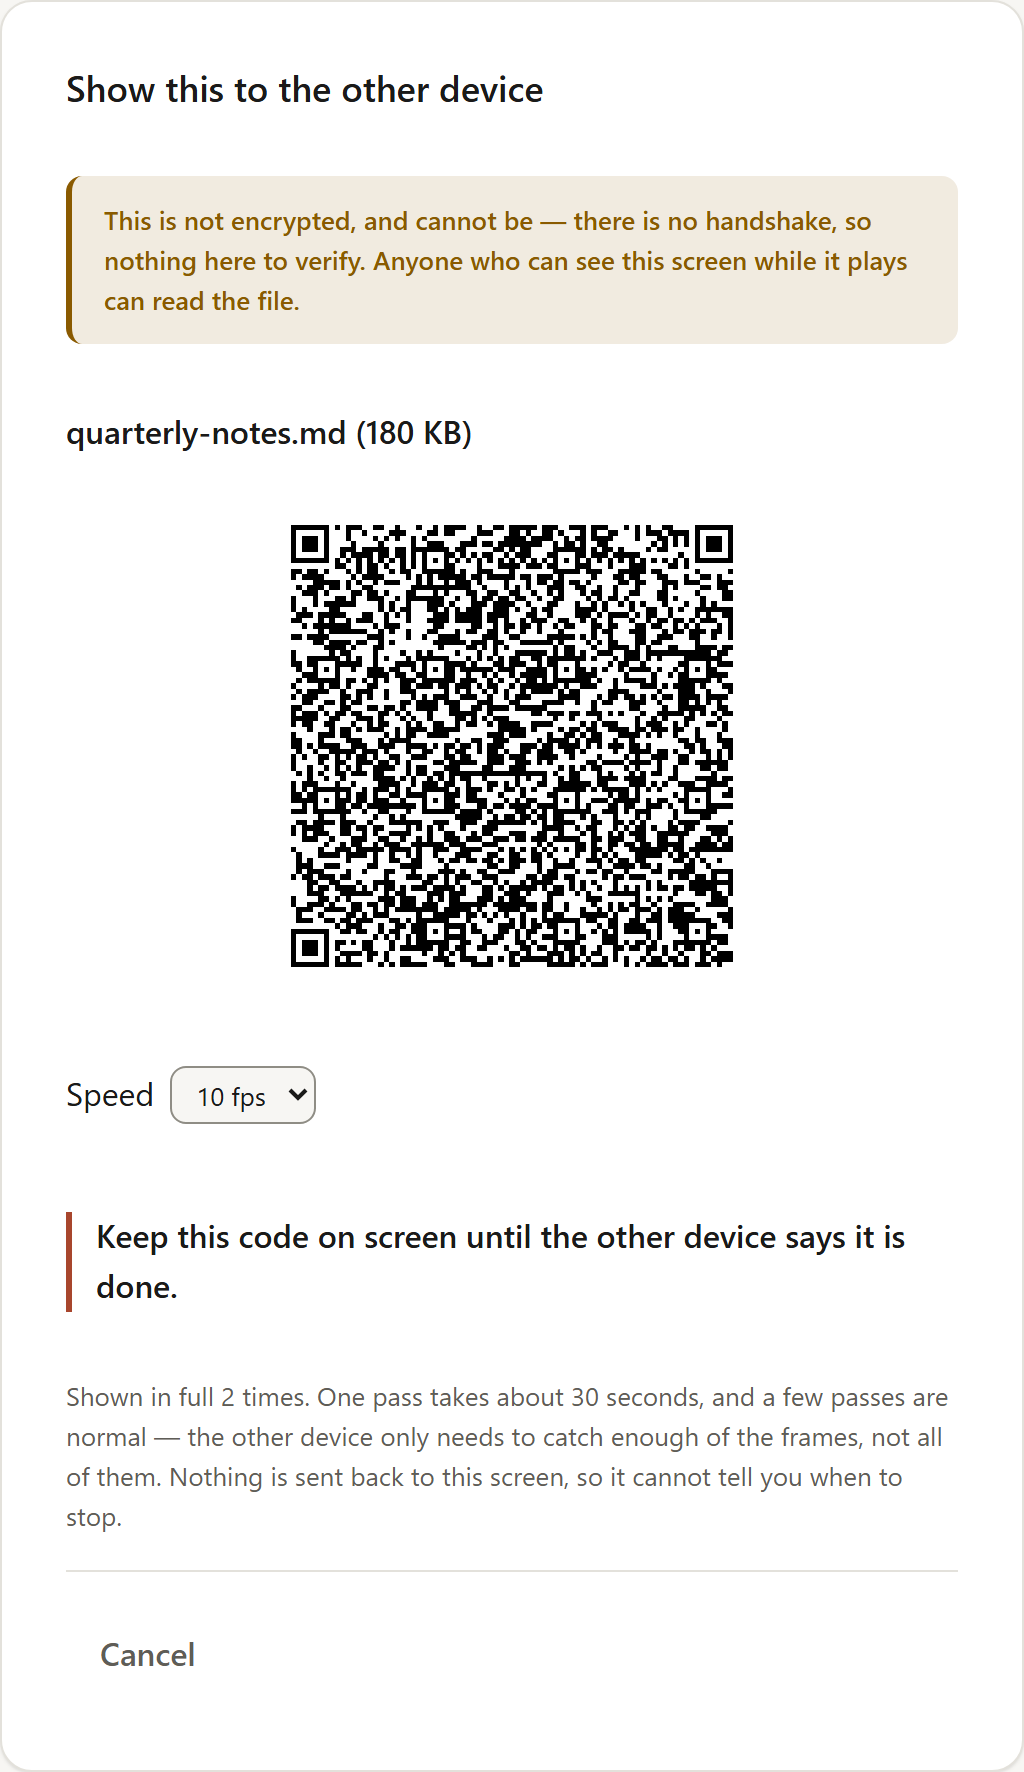
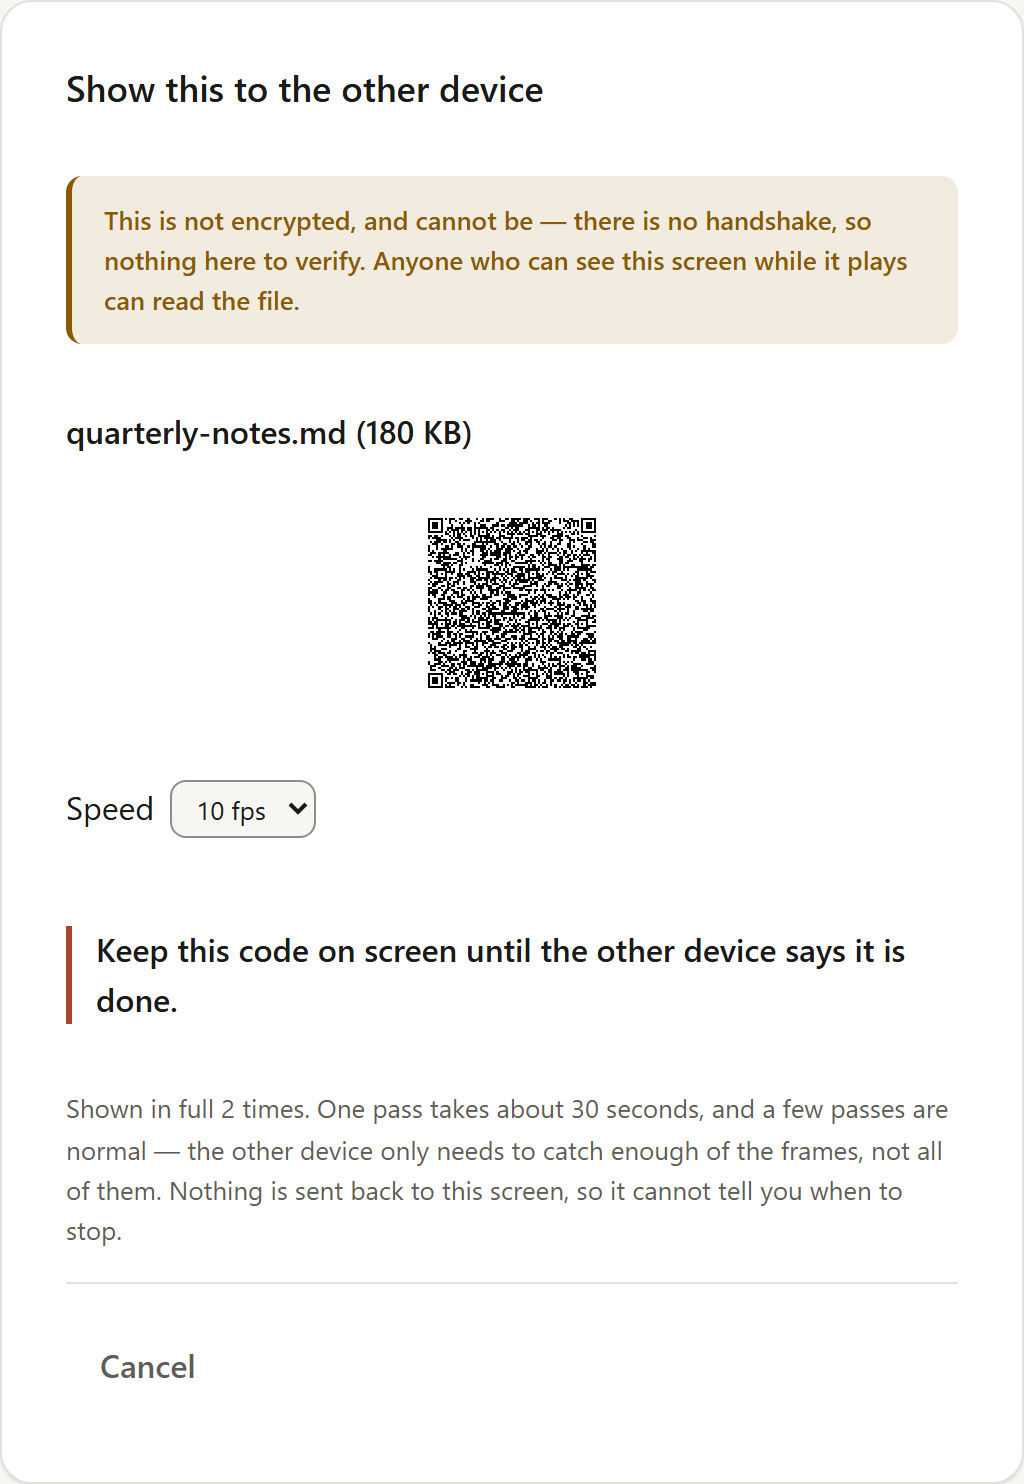
feat(web): announce the route once when it settles, and let the QR shrink like the camera does
Two changes with one motive: a change the user did not cause should still be a
change the user notices.

The network path was the last genuinely passive thing on screen. It resolves a
beat after the verify screen has already been read, quietly inserting a badge
above the SAS tiles -- and it is the most security-relevant sentence in the
app, since "Local network" and "Relayed" are materially different promises
about where the bytes go. A user who never saw the badge appear has not been
told. It now also arrives as a toast, once per settled value: both peers'
verdicts land independently and combinePaths can sharpen 'unknown' into a real
answer a moment later, so announcing every call would say the same thing three
times.

The toast is deliberately the only one. A toast for every state change is a UI
that flashes constantly and is therefore ignored, which is worse than the
silence it replaced. Anything a screen can go on describing stays in `status`;
anything that went wrong goes to the error sheet, which does not expire.

It is positioned absolutely against :host rather than fixed against the
viewport, which was the first attempt: on the deployed site the viewport's
bottom edge belongs to the page, not the component, so a fixed toast sat on top
of the site footer's links.

The QR and the beam stage are now sized from their height, with aspect-ratio
deriving the width -- the reverse of the width cap they had. A QR is square, so
[…]

diff --git a/src/web/element.js b/src/web/element.js
@@ -43,7 +43,7 @@ import { openRoom, RELAYED_MAX_BYTES, combinePaths } from '../transport/room.js'
 import { createControlStream } from '../core/control.js'
 import { createReceiver, sendPathVerdict } from '../core/receiver.js'
 import { sendFile } from '../core/sender.js'
-import { relayCapMessage, relayCapDeclineMessage, METERED_WARN_BYTES, PEER_DISCONNECTED } from '../core/messages.js'
+import { relayCapMessage, relayCapDeclineMessage, METERED_WARN_BYTES, PEER_DISCONNECTED, pathDescription } from '../core/messages.js'
 import { bytes } from '../core/format.js'
 import { createSink, canStreamToDisk } from './sink.js'
 import { renderQR, scanQR, cameraAvailable } from './qr.js'
@@ -200,6 +200,9 @@ export class QRDropElement extends HTMLElement {
     /** @type {number | undefined} */
     this._copyTimer = undefined
 
+    /** @type {number | undefined} Clears the transient toast; see _toast. */
+    this._toastTimer = undefined
+
     /**
      * The running beam player, kept only so the fps control can reach it.
      *
@@ -268,7 +271,7 @@ export class QRDropElement extends HTMLElement {
     const publish = path => {
       this._myPath = path
       if (this._sessionEnded) return
-      this._setState({ path: combinePaths(path, this._peerPath ?? 'unknown') })
+      this._announcePath(combinePaths(path, this._peerPath ?? 'unknown'))
       // No control stream, no send. This used to fall back to `() => 0`,
       // which is not a harmless default: index 0 is the manifest's, and two
       // control frames sharing an index under one key is AES-GCM nonce reuse
@@ -309,7 +312,7 @@ export class QRDropElement extends HTMLElement {
   _mergePeerPath(path) {
     this._peerPath = path
     if (this._sessionEnded) return
-    this._setState({ path: combinePaths(this._myPath ?? 'unknown', path) })
+    this._announcePath(combinePaths(this._myPath ?? 'unknown', path))
   }
 
   /**
@@ -357,6 +360,7 @@ export class QRDropElement extends HTMLElement {
       beamNode: /** @type {Element | null} */ (null),
       dialogNode: /** @type {Element | null} */ (this._dialogNode),
       modal: /** @type {'beam-offer' | 'error' | null} */ (null),
+      toast: /** @type {string | null} */ (null),
       beam: /** @type {import('./view.js').State['beam']} */ (null),
     }
   }
@@ -482,6 +486,7 @@ export class QRDropElement extends HTMLElement {
     try { this._teardown?.() } catch { /* already gone */ }
     this._teardown = null
     clearTimeout(this._copyTimer)
+    clearTimeout(this._toastTimer)
   }
 
   /**
@@ -585,6 +590,50 @@ export class QRDropElement extends HTMLElement {
     if (heading instanceof HTMLElement) heading.focus()
   }
 
+  /**
+   * Set the network path, and say so out loud the first time it settles.
+   *
+   * The badge this feeds arrives a beat after the verify screen has already
+   * been read -- it is the one thing on that screen that appears on its own,
+   * with no gesture behind it, quietly inserting itself above the SAS tiles.
+   * It is also the most security-relevant sentence in the app: "Local network"
+   * and "Relayed" are materially different promises about where the bytes go,
+   * and a user who never noticed the badge change has not been told.
+   *
+   * Once per settled value, not once per call. Both sides' verdicts arrive
+   * independently (see _mergePeerPath) so this runs twice for one pairing, and
+   * combinePaths can also sharpen 'unknown' into a real answer a moment later
+   * -- announcing every call would toast the same fact two or three times.
+   *
+   * @param {NetworkPath} path
+   */
+  _announcePath(path) {
+    const changed = path !== this._state.path
+    this._setState({ path })
+    if (changed && path !== 'unknown') this._toast(pathDescription(path).label)
+  }
+
+  /**
+   * Announce something that just happened, briefly.
+   *
+   * Deliberately narrow. A toast for every state change is a UI that flashes
+   * constantly and is therefore ignored, which is a worse outcome than the
+   * silence it replaced -- these fire for changes the user did not cause and
+   * could not otherwise notice. Anything the screen can go on describing
+   * belongs in `status`; anything that went wrong belongs in the error sheet,
+   * which does not disappear on a timer.
+   *
+   * @param {string} message
+   */
+  _toast(message) {
+    clearTimeout(this._toastTimer)
+    this._setState({ toast: message })
+    // Long enough to read a short sentence twice. Cleared through _setState
+    // rather than by touching the DOM, so a re-render in between cannot
+    // resurrect a toast that has already expired.
+    this._toastTimer = setTimeout(() => this._setState({ toast: null }), 4000)
+  }
+
   /** @param {unknown} error */
   _fail(error) {
     console.error(error)
@@ -641,6 +690,7 @@ export class QRDropElement extends HTMLElement {
     this._peerPath = null
     this._nextControlIndex = null
     clearTimeout(this._copyTimer)
+    clearTimeout(this._toastTimer)
     this._setState({
       screen: 'choose', role: null, status: '', code: '', qrNode: null, qrIsLink: false,
       sas: '', sasWords: [], offer: null, file: null, progress: null,
@@ -666,6 +716,7 @@ export class QRDropElement extends HTMLElement {
     if (!text) return
     const ok = await copyText(text)
     clearTimeout(this._copyTimer)
+    clearTimeout(this._toastTimer)
     // A failed copy gets a state of its own rather than the early return it
     // used to get -- see view.js's copyLabel for why silence was the wrong
     // answer. It reverts on the same timer as the success case.

diff --git a/src/web/styles.js b/src/web/styles.js
@@ -281,6 +281,48 @@ ${tokensCSS(':host')}
 .sheet-actions .btn { flex: 1 1 10rem; }
 .sheet-actions .btn.ghost { flex: 0 1 auto; }
 
+/*
+ * The toast: one transient line, for a change the user did not cause.
+ *
+ * position: absolute against :host, NOT fixed against the viewport. Fixed was
+ * the first attempt and is wrong on the deployed site: the viewport's bottom
+ * edge is the page's, not the component's, so the toast landed on top of the
+ * site footer's links. Absolute anchors it to the component, which is the
+ * thing it is reporting about. Nothing clips it -- :host sets no overflow, and
+ * only .card-body does, which is not an ancestor of this.
+ *
+ * Sitting just above the card's bottom edge puts it directly over the action
+ * bar, which is where the eye already is.
+ *
+ * pointer-events: none because it must never intercept a tap meant for the
+ * button underneath it. It says something; it is not something to use.
+ */
+:host { position: relative; }
+
+.toast {
+  position: absolute;
+  inset-block-end: var(--sp-4);
+  inset-inline: var(--sp-4);
+  margin-inline: auto;
+  inline-size: fit-content;
+  max-inline-size: calc(100% - var(--sp-6));
+  z-index: var(--z-toast);
+  pointer-events: none;
+  padding: var(--sp-2) var(--sp-4);
+  border-radius: var(--r-full);
+  background: var(--text);
+  color: var(--surface);
+  font-size: var(--fs--1);
+  font-weight: 500;
+  box-shadow: var(--shadow-1);
+  animation: toast-in var(--dur-slow) ease-out;
+}
+
+@keyframes toast-in {
+  from { opacity: 0; transform: translateY(var(--sp-3)); }
+  to { opacity: 1; transform: none; }
+}
+
 h2 {
   margin: 0 0 var(--sp-4);
   font-size: var(--fs-1);
@@ -398,14 +440,33 @@ h2:focus, h2:focus-visible { outline: none; box-shadow: none; }
 }
 
 /* Always light, whatever the page theme: scanners read dark-on-light best. */
+/*
+ * Sized from its HEIGHT, with aspect-ratio deriving the width -- the reverse
+ * of the obvious inline-size cap this used to have.
+ *
+ * A QR is square, so whichever axis is scarcer has to be the one that governs.
+ * On a phone that is the height: a 16rem-wide code demands 16rem of vertical
+ * space unconditionally, and on the send screen that was 322px of a card that
+ * did not have it, pushing the rest of the screen into a scroll. Driving the
+ * block size instead lets the code shrink when the card is short and sit at
+ * its full size when it is not, with the width following rather than leading.
+ *
+ * The floor matters: below roughly 7rem the modules of a version-6 code get
+ * small enough that a phone camera at arm length stops locking on, and a QR
+ * nobody can scan is not a smaller QR, it is a broken screen.
+ */
 .qr {
   background: var(--qr-quiet-zone);
   border-radius: var(--r-sm);
   padding: var(--sp-3);
-  width: min(16rem, 100%);
+  flex: 0 1 auto;
+  block-size: min(16rem, 100%);
+  min-block-size: 7rem;
+  aspect-ratio: 1;
+  max-inline-size: 100%;
   margin: 0 auto var(--sp-5);
 }
-.qr svg { display: block; width: 100%; height: auto; }
+.qr svg { display: block; inline-size: 100%; block-size: 100%; }
 
 /* Same "always light" reasoning as .qr above, and the same quiet-zone padding
  * -- a beam frame is read by the exact same class of scanner as the pairing
@@ -414,7 +475,11 @@ h2:focus, h2:focus-visible { outline: none; box-shadow: none; }
   background: var(--qr-quiet-zone);
   border-radius: var(--r-sm);
   padding: var(--sp-3);
-  width: min(16rem, 100%);
+  flex: 0 1 auto;
+  block-size: min(16rem, 100%);
+  min-block-size: 7rem;
+  aspect-ratio: 1;
+  max-inline-size: 100%;
   margin: 0 auto var(--sp-4);
 }
 
@@ -425,8 +490,8 @@ h2:focus, h2:focus-visible { outline: none; box-shadow: none; }
  * an un-pixelated beam looks fine to a person and is unreadable to a camera. */
 .beam-canvas {
   display: block;
-  width: 100%;
-  height: auto;
+  inline-size: 100%;
+  block-size: 100%;
   image-rendering: pixelated;
 }
 
@@ -732,7 +797,31 @@ input[type="text"]:focus-visible { outline: none; box-shadow: var(--focus-ring);
   .card-actions { padding-block-start: var(--sp-3); }
   .steps { margin-bottom: var(--sp-3); }
   .outcome { padding: var(--sp-3); }
-  .qr, .beam-stage { inline-size: min(12rem, 100%); }
+  .qr, .beam-stage { block-size: min(12rem, 100%); }
+}
+
+/*
+ * The SAS tiles on a small phone, which is the one screen where trimming
+ * padding was not enough.
+ *
+ * Four tiles at their full size, a two-line heading and the "if these differ"
+ * warning together overflow a 390x844 viewport, and the warning is the half
+ * that was being cut -- the sentence that tells a person what the screen is
+ * FOR. Shrinking the tiles is the right trade: the emoji is decoration and the
+ * word underneath is the content (see view.js), so the tile can lose a few
+ * millimetres without losing anything a person reads aloud.
+ */
+@media (max-width: 26rem) {
+  .sas-tile { padding: var(--sp-2); }
+  .sas-emoji { font-size: var(--fs-1); }
+  h2 { font-size: var(--fs-0); }
+
+  /* The path badge keeps its label and loses its explanatory sentence. On this
+   * screen that sentence is the third time the same fact is stated -- the
+   * toast announces the route, the badge names it, and this explains it -- and
+   * it was costing 40px that the "if these differ" warning needed. The badge
+   * itself stays: losing the fact would be a different and worse trade. */
+  .path-info .note { display: none; }
 }
 
 /* Absent from the pre-restyle stylesheet entirely: every transition and the

diff --git a/src/web/view.js b/src/web/view.js
@@ -94,6 +94,10 @@ import { FPS_CHOICES, DEFAULT_FPS } from './beam.js'
  *   save destination coming back -- see element.js's onOfferAccept handlers
  * @property {Element | null} dialogNode the adopted <dialog> element.js owns.
  *   Its contents are patched separately -- see dialogContent below.
+ * @property {string | null} toast a transient announcement, cleared on a timer
+ *   by element.js. For things that HAPPENED rather than things that are true:
+ *   a state a screen can go on describing belongs in `status`, which is always
+ *   on screen, not in something that disappears.
  * @property {'beam-offer' | 'error' | null} modal which sheet is open, if any.
  *   The sheet is the only box on a non-scrolling page allowed to scroll
  *   inside itself, so it is where long copy and anything unplanned goes.
@@ -243,6 +247,19 @@ export function render(state, dispatch) {
     // patched separately, against its own prev-tree. Two patch roots, one
     // owner each.
     h('div', { class: 'dialog-host', key: 'dialog-host', adopt: state.dialogNode }),
+
+    // A change the user did not cause should still be a change the user
+    // notices. The step rail and the status line both describe what is true
+    // now, and neither draws the eye when what is true changes -- a peer
+    // arriving or the route turning out to be relayed used to alter a word in
+    // a paragraph and nothing else. This says it happened, once, and goes.
+    //
+    // role="status" rather than "alert": these are informational, and an alert
+    // interrupts a screen reader mid-sentence, which is the wrong weight for
+    // news that the connection is direct. Real failures go to the error sheet.
+    state.toast
+      ? h('div', { class: 'toast', role: 'status', key: 'toast' }, state.toast)
+      : null,
   ].filter(Boolean))
 }
 
